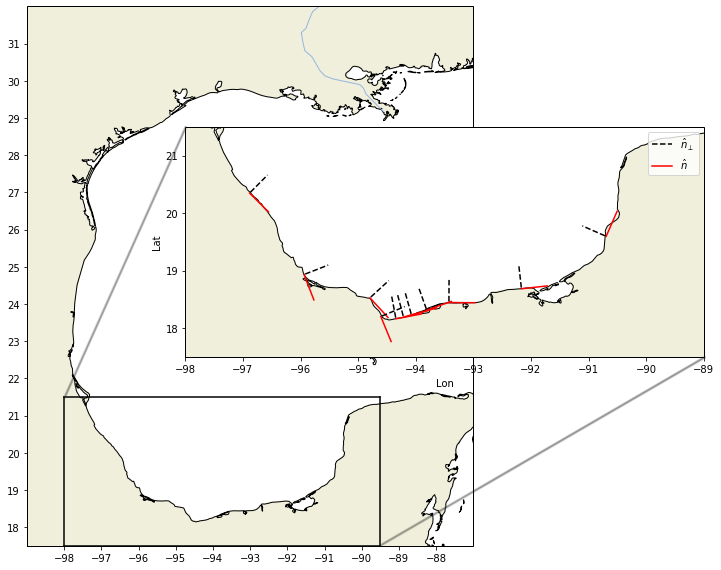
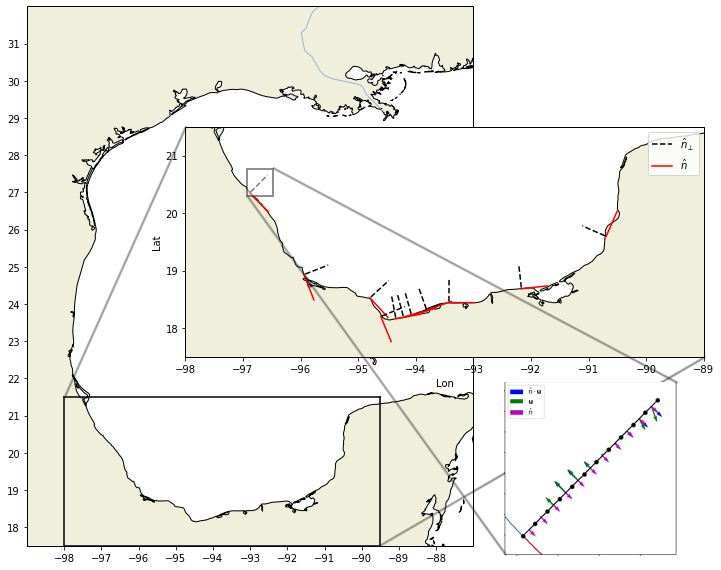
Add perpendicular vector plot

diff --git a/ReadMe.md b/ReadMe.md
@@ -63,6 +63,6 @@ Then the transport is computed using:
 
 Additional constrains can be added in which the transport will be masked 
 by tracers. For example, figure 2 shows the transport of passive tracers at the 
-Gulf of Mexico with concentrations larger than 10% ($C_0 = 1 mol/m^3$). 
+Gulf of Mexico with concentrations larger than 10% ($$C_0 = 1 mol/m^3$$). 
 
 ![Alt Text](https://github.com/josuemtzmo/tcoasts/blob/master/figures/t_ptracers.png "Perpendicular Vectors")
